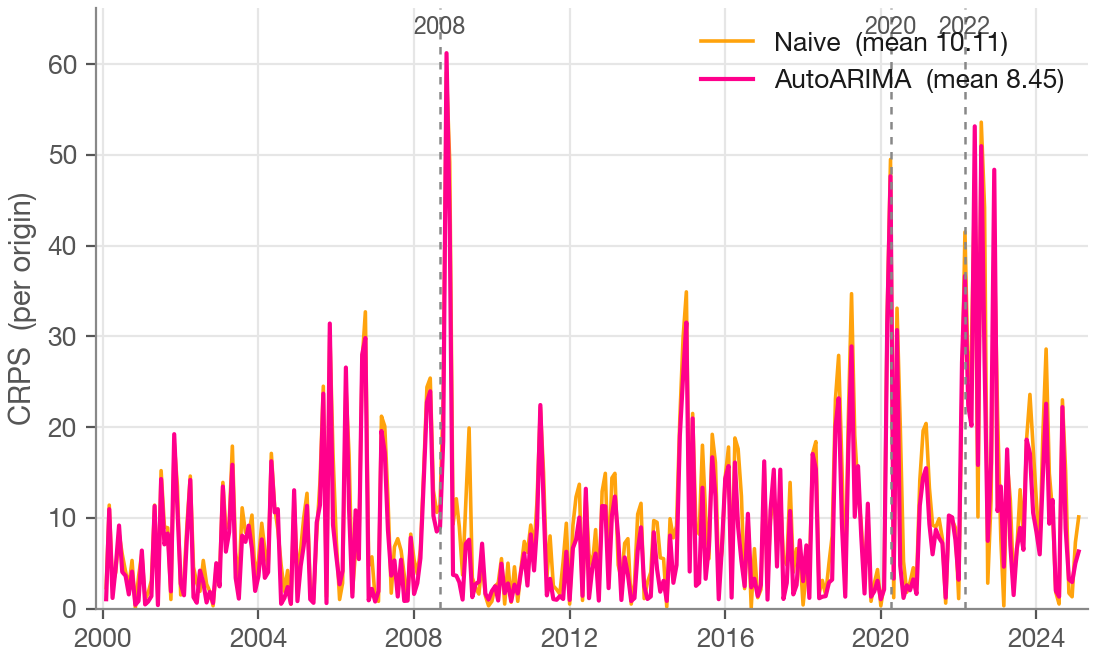
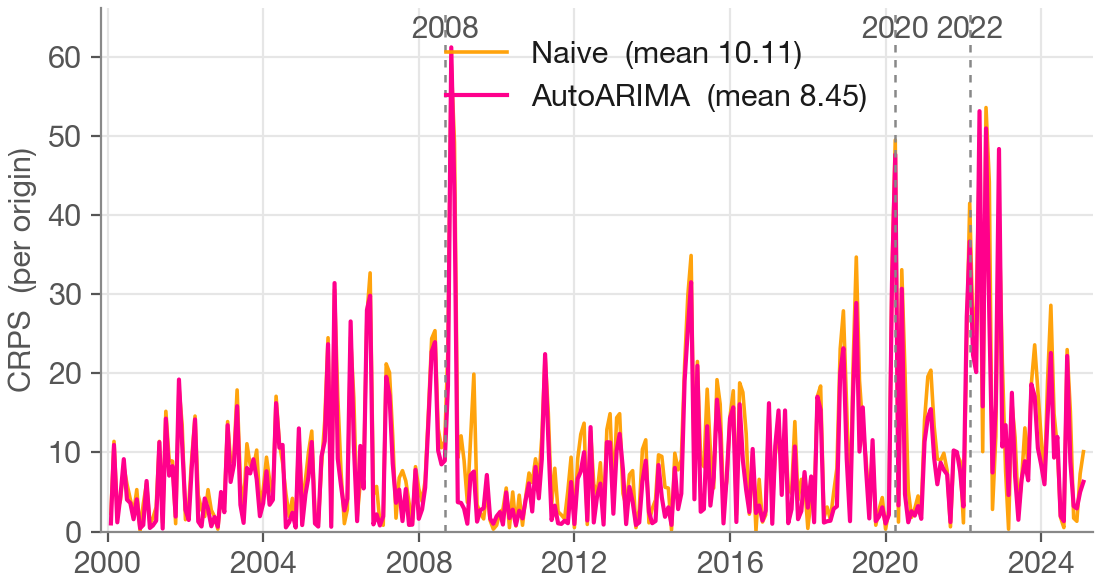
learn-days: ship-grade d1-01 (Forecasting Foundations)
Apply the revision recipe to the worked-example deck — it predated the
recipe (no baked notes, no density slots, figures bypassing figure_qa):

- Bake all 12 speaker notes into the .pptx notes pane (offline study doc).
- Enrich faces with density slots: a CRPS stat leaderboard (8.45 green /
  10.11 muted) beside the shock-clustering plot, and supporting points on
  the Predictor-interface and forecast rails.
- Route all three figures through figure_qa.guard (slot=) and lift every
  in-figure font ≥11pt — the d1-01 plots had 8.5pt legends/annotations
  that scaled to ~7pt on the slide (the minuscule-text defect). The S&P
  panel is re-authored for the shorter figure_full_callout slot.
- Move the CRPS legend into the empty band between the 2008 and 2020/2022
  regime labels so it no longer collides with them.

diff --git a/learn-days/assets/plotting/figures_d1_01.py b/learn-days/assets/plotting/figures_d1_01.py
@@ -166,13 +166,16 @@ def fig_forecast_fanchart(cache: dict) -> None:
     ax.scatter(dates[worst], actual[worst], color=vp.RED, s=42, marker="x",
                lw=2.0, zorder=5, label="Biggest misses")
 
-    ax.set_ylabel("CPI Gasoline (2002=100)")
+    ax.set_ylabel("CPI Gasoline (2002=100)", fontsize=11)
+    ax.tick_params(labelsize=11)
     ax.xaxis.set_major_locator(mdates.YearLocator(1))
     ax.xaxis.set_major_formatter(mdates.DateFormatter("%Y"))
+    # Legend fonts must clear the on-slide legibility floor (≥9pt after the ~0.88×
+    # `figure`-slot downscale), so keep them ≥10.5pt — never the matplotlib default.
     ax.legend(loc="upper left", ncol=2, columnspacing=1.0, handletextpad=0.5,
-              fontsize=8.5)
+              fontsize=10.5)
     ax.margins(x=0.01)
-    vp.save(fig, f"{SESSION}/cpi_forecast_fanchart")
+    vp.save(fig, f"{SESSION}/cpi_forecast_fanchart", slot="figure")
     print("[fig] cpi_forecast_fanchart")
 
 
@@ -201,14 +204,19 @@ def fig_crps_over_time(cache: dict) -> None:
         ax.axvline(x, color=vp.MUTED, ls=(0, (3, 3)), lw=0.9)
         ax.annotate(label, xy=(x, ymax), xytext=(0, -3),
                     textcoords="offset points", ha="center", va="top",
-                    fontsize=8.5, color=vp.BODY, fontweight="bold")
+                    fontsize=11, color=vp.BODY, fontweight="bold")
 
-    ax.set_ylabel("CRPS  (per origin)")
+    ax.set_ylabel("CRPS  (per origin)", fontsize=11)
+    ax.tick_params(labelsize=11)
     ax.xaxis.set_major_locator(mdates.YearLocator(4))
     ax.xaxis.set_major_formatter(mdates.DateFormatter("%Y"))
-    ax.legend(loc="upper right", framealpha=0.9, facecolor="white", edgecolor="none")
+    # Anchor the legend in the empty top band *between* the 2008 and 2020 regime
+    # lines (axis-fraction ~0.32 and ~0.80): centering at 0.56 keeps its ~0.3-wide
+    # box clear of all three labels — a text/text overlap the box guard can't see.
+    ax.legend(loc="upper center", bbox_to_anchor=(0.56, 0.99),
+              framealpha=0.9, facecolor="white", edgecolor="none", fontsize=11)
     ax.margins(x=0.01)
-    vp.save(fig, f"{SESSION}/cpi_crps_over_time")
+    vp.save(fig, f"{SESSION}/cpi_crps_over_time", slot="figure")
     print("[fig] cpi_crps_over_time")
 
 
@@ -234,7 +242,10 @@ def fig_sp500_horizon_crps() -> None:
         return float(yaml.safe_load(p.read_text())["mean_score"])
 
     vp.use_brand_style()
-    fig, axes = plt.subplots(1, 3, figsize=vp.SIZES["full"])
+    # Slide 11 is `figure_full` + a callout bar, so the PNG lands in the shorter
+    # `figure_full_callout` slot (8.6×2.27"). Author short/wide and keep every font
+    # ≥11pt so nothing drops below the 9pt on-slide floor after the ~0.85× downscale.
+    fig, axes = plt.subplots(1, 3, figsize=(8.6, 2.55))
     for ax, (hz, htitle) in zip(axes, horizons):
         vals = [mean_crps(pid, hz) for _, pid, _, _ in series]
         xs = np.arange(len(series))
@@ -246,21 +257,23 @@ def fig_sp500_horizon_crps() -> None:
         best = int(np.argmin(vals))
         ax.scatter(best, vals[best] * 1.06 + 0.0005, marker="v", color=vp.GREEN,
                    s=30, zorder=5)
-        ax.set_title(htitle, fontsize=11)
+        ax.set_title(htitle, fontsize=12)
         ax.set_xticks([])
+        ax.tick_params(labelsize=11)
         ax.grid(axis="x", visible=False)
         vp.despine(ax)
         ax.margins(y=0.18)
-    axes[0].set_ylabel("Mean CRPS  (lower = better)")
+    axes[0].set_ylabel("Mean CRPS  (lower = better)", fontsize=12)
 
     handles = [
         plt.Rectangle((0, 0), 1, 1, color=c, alpha=a) for _, _, c, a in series
     ]
     fig.legend(handles, [name for name, _, _, _ in series],
-               loc="lower center", ncol=4, frameon=False,
+               loc="lower center", ncol=4, frameon=False, fontsize=12,
                bbox_to_anchor=(0.5, -0.04), columnspacing=1.4)
-    fig.tight_layout(rect=(0, 0.04, 1, 1))
-    vp.save(fig, f"{SESSION}/sp500_horizon_crps", pad=0.06)
+    fig.tight_layout(rect=(0, 0.05, 1, 1))
+    vp.save(fig, f"{SESSION}/sp500_horizon_crps", pad=0.06,
+            slot="figure_full_callout")
     print("[fig] sp500_horizon_crps")
 
 
